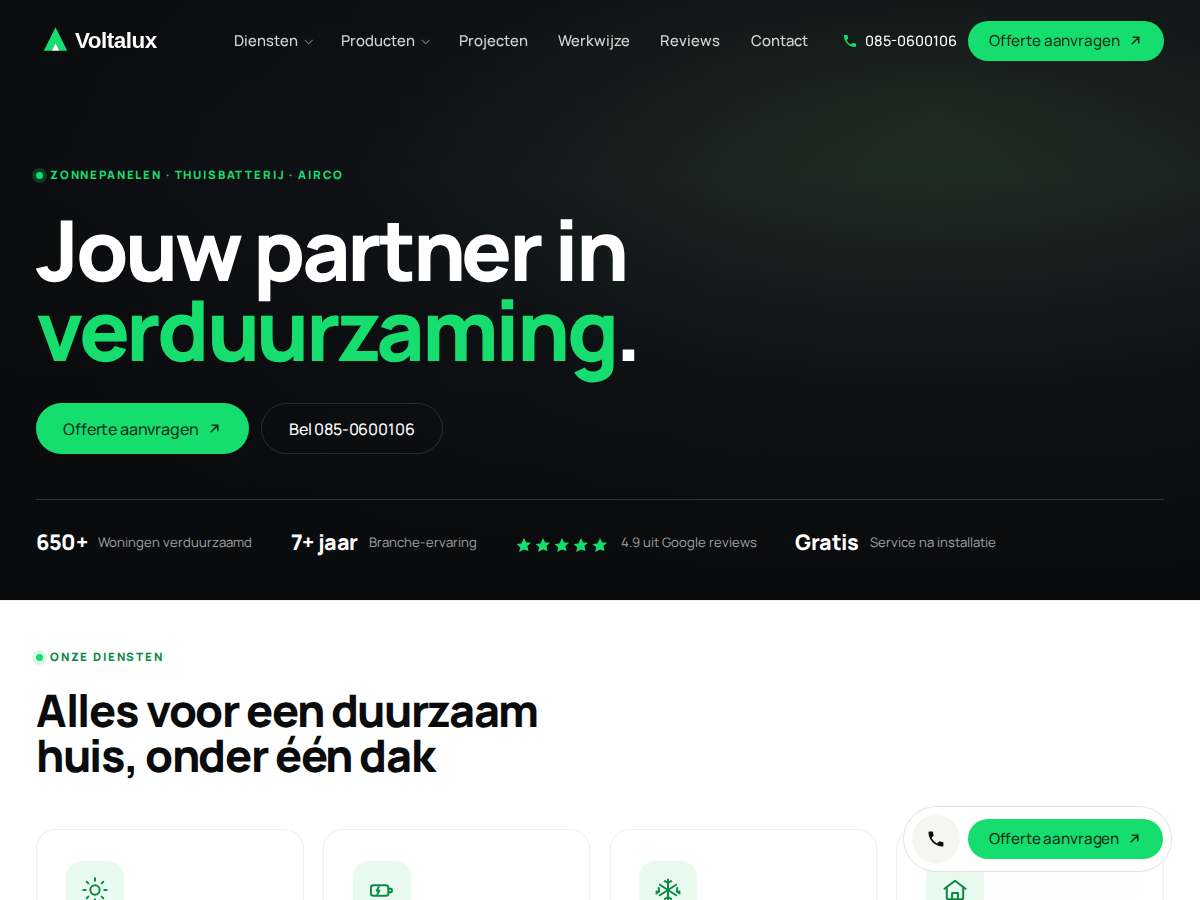
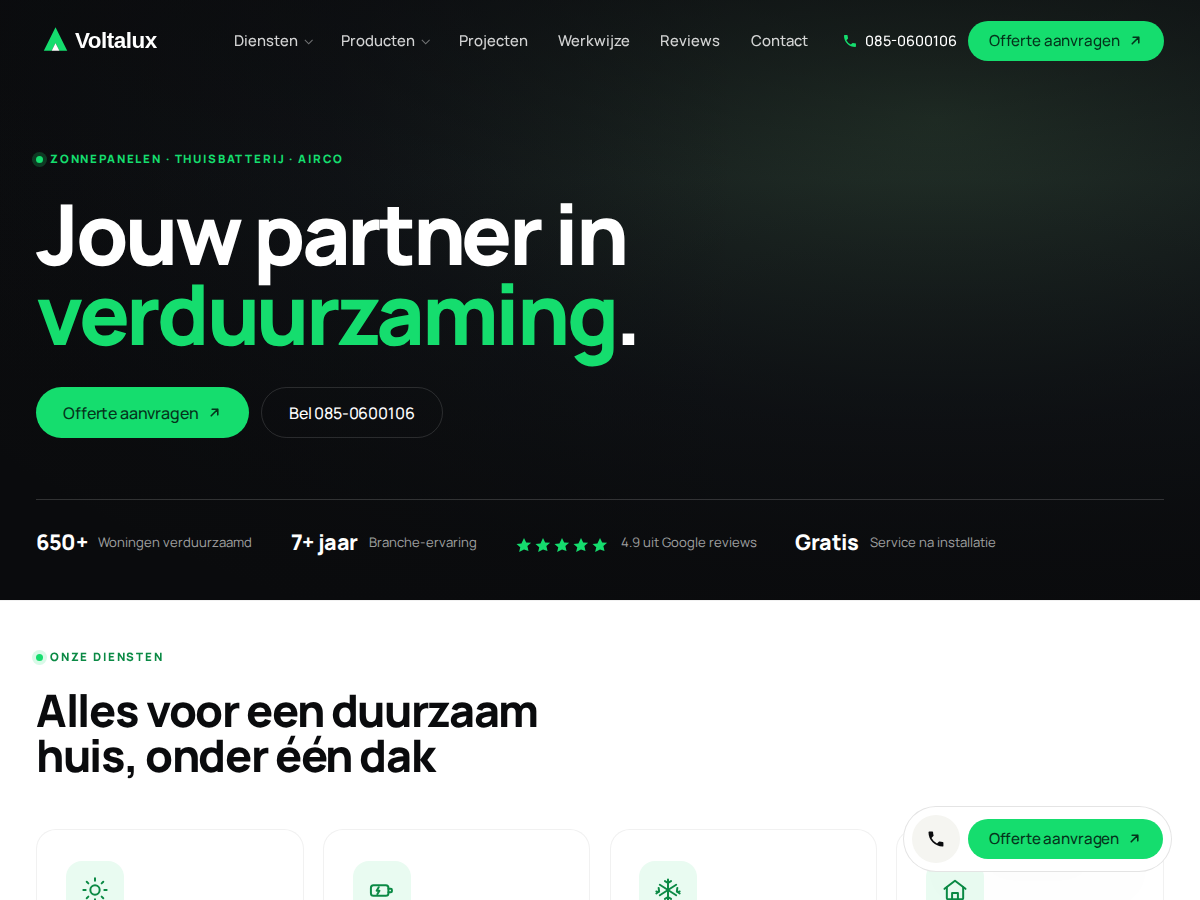
Round 12: clean product dropdown, smoother reveals, hero CTA spacing
- Producten mega: removed the per-card border, border-radius ring, background
  and box-shadow (plus the image drop-shadow) — the products now sit clean on
  the panel with just a soft hover tint.
- Reveal animations: shorter travel (14px), snappier 0.65s, and elements are
  promoted to their own compositor layer (will-change) only while animating and
  released afterwards, so scroll-in is smooth instead of janky; lighter stagger.
- Hero: .vlx-hero__cta gets 1rem bottom padding.
- Video: earliest-possible inline muted play() attempt right after the element,
  in addition to the existing retry-on-gesture logic.
- Bump theme version to 3.7.2.

Claude-Session: https://claude.ai/code/session_019g7JR4kKgfngk3iqcZKSQ3

diff --git a/voltalux/assets/css/theme.css b/voltalux/assets/css/theme.css
@@ -46,7 +46,7 @@
 .vlx-s-head-row .vlx-s-head { margin-bottom: 0; }
 
 /* Reveal on scroll */
-.vlx-reveal { opacity: 0; transform: translateY(20px); transition: opacity .8s var(--ease-out), transform .8s var(--ease-out); }
+.vlx-reveal { opacity: 0; transform: translateY(14px); transition: opacity .65s var(--ease-out), transform .65s var(--ease-out); backface-visibility: hidden; }
 .vlx-reveal.is-in { opacity: 1; transform: none; }
 @media (prefers-reduced-motion: reduce) { .vlx-reveal { opacity: 1; transform: none; } }
 
@@ -199,7 +199,7 @@ body.menu-open .vlx-m-nav__foot > * { animation: mEnter .55s var(--ease-out) bot
 .vlx-hero .vlx-eyebrow { color: var(--green); margin-bottom: 1.5rem; }
 .vlx-hero h1 { color: #fff; font-size: var(--fs-display); font-weight: 800; letter-spacing: -.04em; line-height: .96; max-width: 15ch; margin-bottom: 1.5rem; }
 .vlx-hero__text { max-width: 46rem; font-size: var(--fs-lead); color: rgba(255,255,255,.82); }
-.vlx-hero__cta { display: flex; flex-wrap: wrap; gap: .7rem; margin-top: 2.1rem; }
+.vlx-hero__cta { display: flex; flex-wrap: wrap; gap: .7rem; margin-top: 2.1rem; padding-bottom: 1rem; }
 
 /* Spec bar under hero */
 .vlx-hero__specs { display: flex; flex-wrap: wrap; gap: 1.4rem 2.4rem; margin-top: 2.8rem; padding-top: 1.6rem; border-top: 1px solid rgba(255,255,255,.16); }
@@ -646,10 +646,10 @@ body.drawer-open .vlx-drawer__panel { transform: translateX(0); }
 .vlx-mega--svc { width: min(600px, 94vw); }
 .vlx-mega--prod { width: min(740px, 94vw); }
 .vlx-prodmega { display: grid; grid-template-columns: repeat(4, 1fr); gap: .6rem; }
-.vlx-prodcard { display: flex; flex-direction: column; align-items: center; text-align: center; gap: .15rem; padding: .9rem .7rem 1rem; border-radius: 15px; border: 1px solid var(--line-2); background: var(--surface); transition: transform var(--t) var(--ease), border-color var(--t) var(--ease), box-shadow var(--t) var(--ease); }
-.vlx-prodcard:hover { transform: translateY(-4px); border-color: var(--green-line); box-shadow: var(--shadow); }
+.vlx-prodcard { display: flex; flex-direction: column; align-items: center; text-align: center; gap: .15rem; padding: .9rem .7rem 1rem; border-radius: 14px; transition: background-color var(--t) var(--ease); }
+.vlx-prodcard:hover { background: var(--paper); }
 .vlx-prodcard__img { height: 104px; display: grid; place-items: center; margin-bottom: .45rem; }
-.vlx-prodcard__img img { max-height: 104px; width: auto; object-fit: contain; filter: drop-shadow(0 12px 16px rgba(10,11,13,.14)); }
+.vlx-prodcard__img img { max-height: 104px; width: auto; object-fit: contain; }
 .vlx-prodcard__name { font-family: var(--font-display); font-weight: 700; font-size: .95rem; letter-spacing: -.01em; color: var(--ink); }
 .vlx-prodcard__spec { font-size: .72rem; color: var(--muted); }
 @media (max-width: 900px) { .vlx-prodmega { grid-template-columns: repeat(2, 1fr); } }

diff --git a/voltalux/assets/js/theme.js b/voltalux/assets/js/theme.js
@@ -77,11 +77,17 @@
 	if (reveals.length && 'IntersectionObserver' in window && !reduce) {
 		var io = new IntersectionObserver(function (entries) {
 			entries.forEach(function (entry) {
-				if (entry.isIntersecting) { entry.target.classList.add('is-in'); io.unobserve(entry.target); }
+				if (!entry.isIntersecting) { return; }
+				var t = entry.target;
+				// Promote to its own layer only for the duration of the animation, then release it.
+				t.style.willChange = 'transform, opacity';
+				t.classList.add('is-in');
+				t.addEventListener('transitionend', function () { t.style.willChange = 'auto'; t.style.transitionDelay = '0ms'; }, { once: true });
+				io.unobserve(t);
 			});
-		}, { rootMargin: '0px 0px -8% 0px', threshold: 0.08 });
+		}, { rootMargin: '0px 0px -10% 0px', threshold: 0.1 });
 		reveals.forEach(function (el, i) {
-			el.style.transitionDelay = (Math.min(i % 4, 3) * 70) + 'ms';
+			el.style.transitionDelay = (Math.min(i % 3, 2) * 55) + 'ms';
 			io.observe(el);
 		});
 	} else {

diff --git a/voltalux/style.css b/voltalux/style.css
@@ -4,7 +4,7 @@ Theme URI: https://voltalux.nl
 Author: DigiTEN
 Author URI: https://digiten.nl
 Description: Voltalux — een krachtig, verfijnd WordPress-thema voor duurzame energie, thuisbatterijen en zonnepanelen. Eigen 'precision energy' designtaal, video-hero, mega-menu met producten en een strak mobiel menu. Volledig compatibel met Elementor: alle kleuren, typografie en knopstijlen werken automatisch door.
-Version: 3.7.1
+Version: 3.7.2
 Requires at least: 6.0
 Tested up to: 6.7
 Requires PHP: 7.4

diff --git a/voltalux/template-parts/home/hero.php b/voltalux/template-parts/home/hero.php
@@ -24,6 +24,7 @@ $b1_url   = voltalux_option( 'hero_btn1_url', '#contact' );
 			<video autoplay muted loop playsinline webkit-playsinline preload="auto" disablepictureinpicture <?php echo $poster ? 'poster="' . esc_url( $poster ) . '"' : ''; ?>>
 				<source src="<?php echo esc_url( $video ); ?>" type="video/mp4">
 			</video>
+				<script>(function(){var v=document.currentScript.previousElementSibling;if(v&&v.tagName==='VIDEO'){try{v.defaultMuted=true;v.muted=true;v.setAttribute('muted','');v.playsInline=true;var p=v.play();if(p&&p.catch){p.catch(function(){});}}catch(e){}}})();</script>
 		<?php elseif ( $poster ) : ?>
 			<img src="<?php echo esc_url( $poster ); ?>" alt="" fetchpriority="high">
 		<?php endif; ?>

diff --git a/voltalux/functions.php b/voltalux/functions.php
@@ -10,7 +10,7 @@ if ( ! defined( 'ABSPATH' ) ) {
 }
 
 if ( ! defined( 'VOLTALUX_VERSION' ) ) {
-	define( 'VOLTALUX_VERSION', '3.7.1' );
+	define( 'VOLTALUX_VERSION', '3.7.2' );
 }
 define( 'VOLTALUX_DIR', trailingslashit( get_template_directory() ) );
 define( 'VOLTALUX_URI', trailingslashit( get_template_directory_uri() ) );
